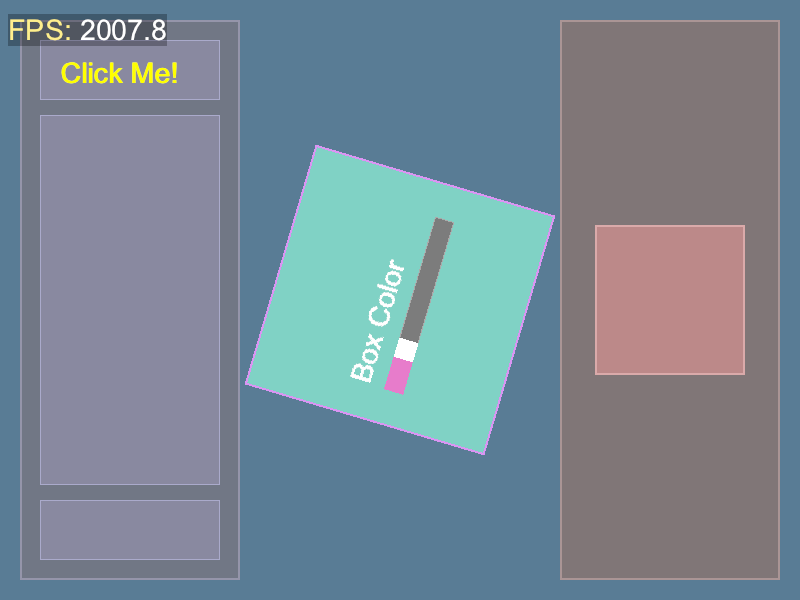
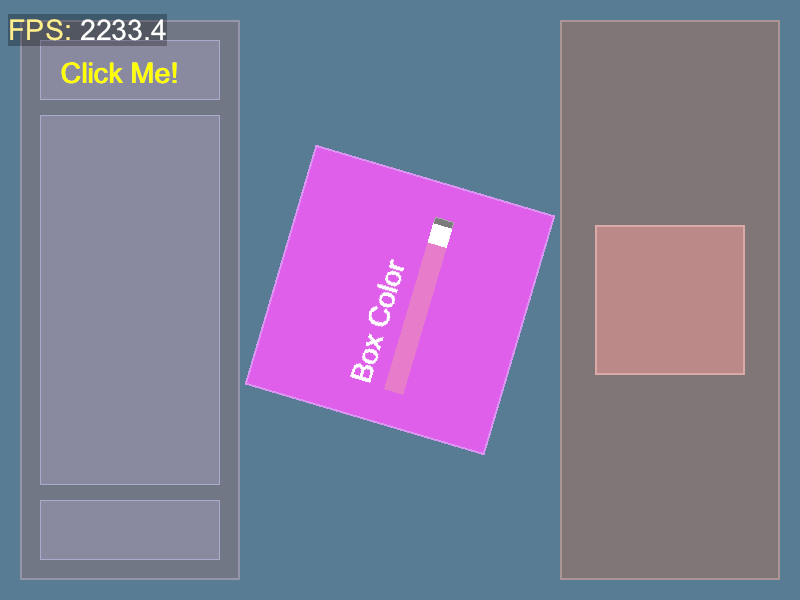
feat: implement Local system param, label systems with the @(tag="system"), fix scheduling Last stage to be Last

Changed region(s): [[0.3125, 0.24, 0.6875, 0.75], [0.125, 0.03, 0.2188, 0.06]]

diff --git a/BENCHMARKS.md b/BENCHMARKS.md
@@ -9,11 +9,11 @@
 
 | Benchmark | Elapsed | Runs | Average | Bytes |
 | :--- | :--- | :--- | :--- | :--- |
-| Spawn Entities | 20.205 ms | 1000000 | 20.205 ns/run | 28.00MiB |
-| Add Component | 530.885 ms | 1000000 | 530.885 ns/run | 3.42KiB |
-| Add Component Bulk (1000000) | 775.958 ms | 1000 | 775.958 us/run | 32.00MiB |
-| Query System (1000000) | 256.842 ms | 1000 | 256.842 us/run | 144B |
-| Systems Runner | 125.900 us | 1000 | 125.900 ns/run | 16.43KiB |
-| Scheduler 7 labels, 100 systems, 100k entities | 995.351 ms | 100 | 9.954 ms/run | 63.53KiB |
-| Serialize/Patch Entity | 12.829 ms | 1000 | 12.829 us/run | 290B |
-| Serialize/Deserialize Resources | 11.250 ms | 1000 | 11.250 us/run | 268B |
+| Spawn Entities | 19.803 ms | 1000000 | 19.803 ns/run | 28.00MiB |
+| Add Component | 532.916 ms | 1000000 | 532.916 ns/run | 3.42KiB |
+| Add Component Bulk (1000000) | 847.015 ms | 1000 | 847.015 us/run | 32.00MiB |
+| Query System (1000000) | 145.958 ms | 1000 | 145.958 us/run | 144B |
+| Systems Runner | 127.000 us | 1000 | 127.000 ns/run | 16.43KiB |
+| Scheduler 7 labels, 100 systems, 100k entities | 1.043 s | 100 | 10.434 ms/run | 63.53KiB |
+| Serialize/Patch Entity | 12.550 ms | 1000 | 12.550 us/run | 281B |
+| Serialize/Deserialize Resources | 10.809 ms | 1000 | 10.809 us/run | 265B |